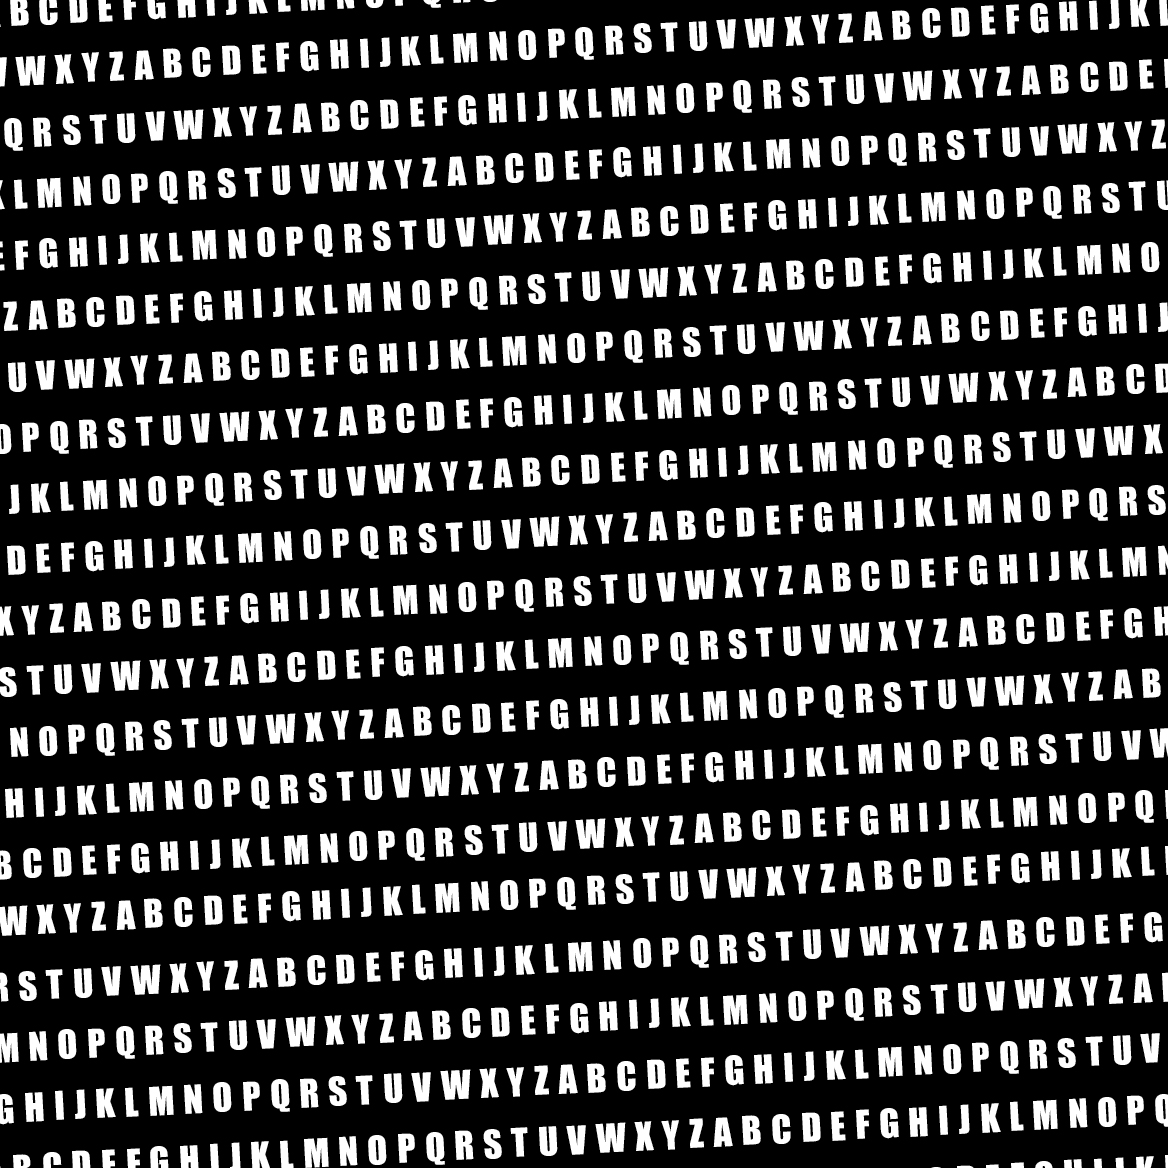
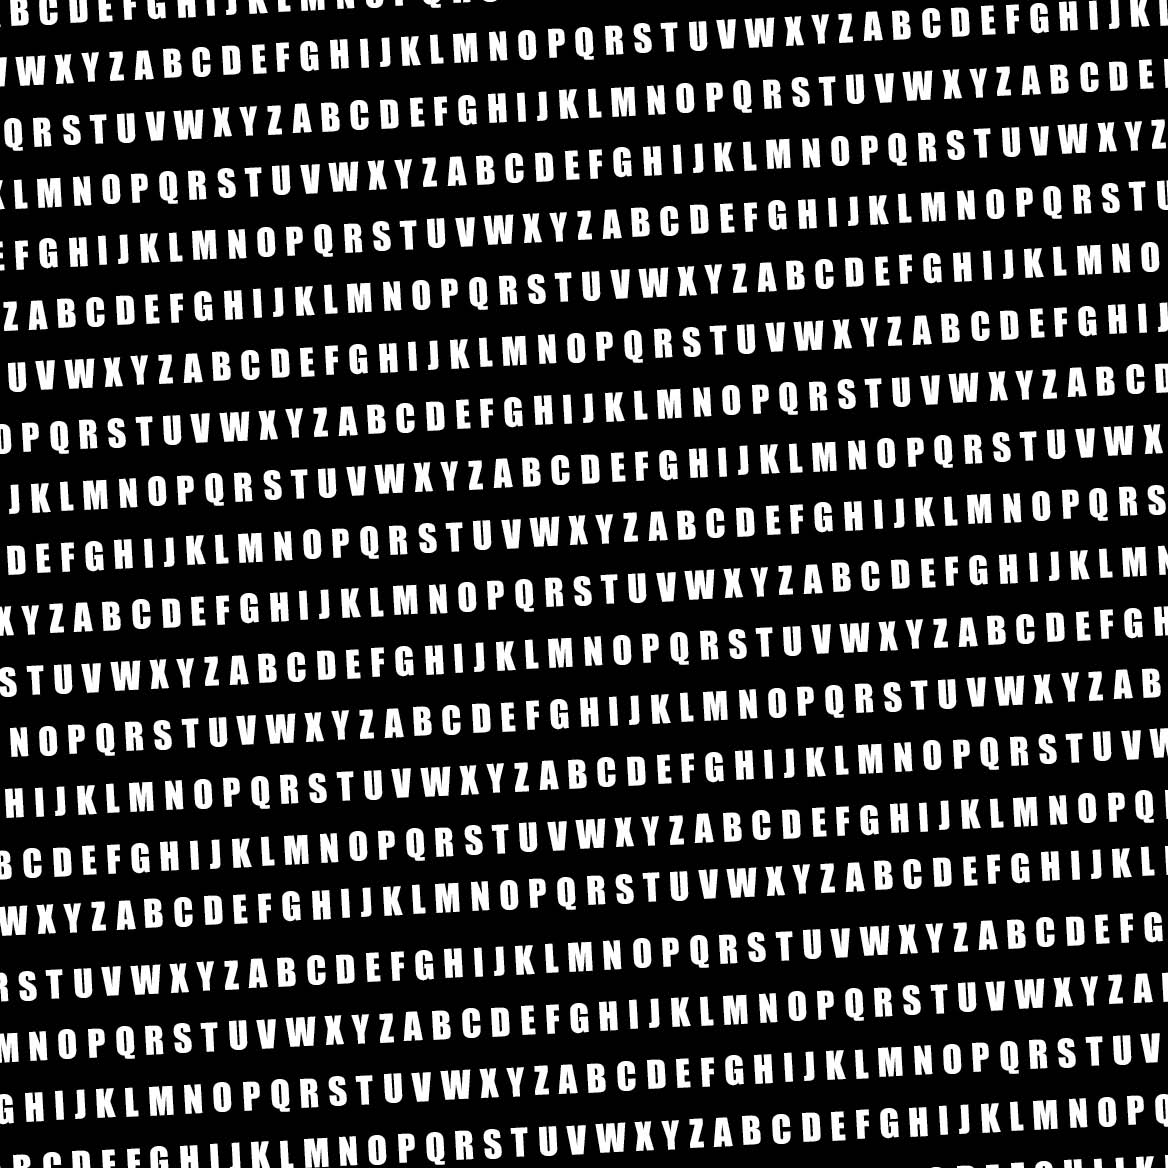
V2.3
Smaller image file size

diff --git a/index.html b/index.html
@@ -6,14 +6,15 @@
 	<script src="CodeName.js"></script>	
 </head>
 <body >	
-	<h1>Welcome to CodeName</h1>
+
 
 	<div class="center">
+		<h1>Welcome to CodeName</h1>	
 		<table class="navigation">
 			<tr>
 				<td class="navigation">
-				<p id="rulesButton" onclick="showAndHideRules()">RULES</p>		
-			</td>
+					<p id="rulesButton" onclick="showAndHideRules()">RULES</p>		
+				</td>
 				<td class="navigation">
 					<form class="seedInput">
 						<input type="text" id='seed' value='GAME NUMBER' 
@@ -29,7 +30,6 @@
 					<p id="representativeButton" onclick="showAnswers(cardColours)" disabled>I'M THE CHOSEN ONE</p>	
 				</td>
 			</tr>
-
 		</table>
 	</div>
 

diff --git a/CodeName.css b/CodeName.css
@@ -1,6 +1,8 @@
 body {
 	font: 20px Myriad, Lucida Grande;
 	font-size: 1.5em;
+	background-color: #f2f2f2;	
+	margin:0px;
 }
 
 table.board {
@@ -8,6 +10,8 @@ table.board {
 	height:100vh;
 	border-spacing: 10px;
 	table-layout:fixed; 
+	margin:0px;
+	background-color:white;
 }
 
 table.board td { 
@@ -21,12 +25,13 @@ td {
 	text-align: center;	
 	background-position: center;
 	background-size:100%;
-	}
+}
 
 table.navigation {
 	background-size:100%;
 	border-spacing: 10px;
 	width:100%;
+
 }
 
 td.navigation {
@@ -44,8 +49,8 @@ form.seedInput {
 }
 
 .center {
-	margin:auto;
 	text-align: center;
+	margin-bottom:1em;
 }
 
 #seed {
